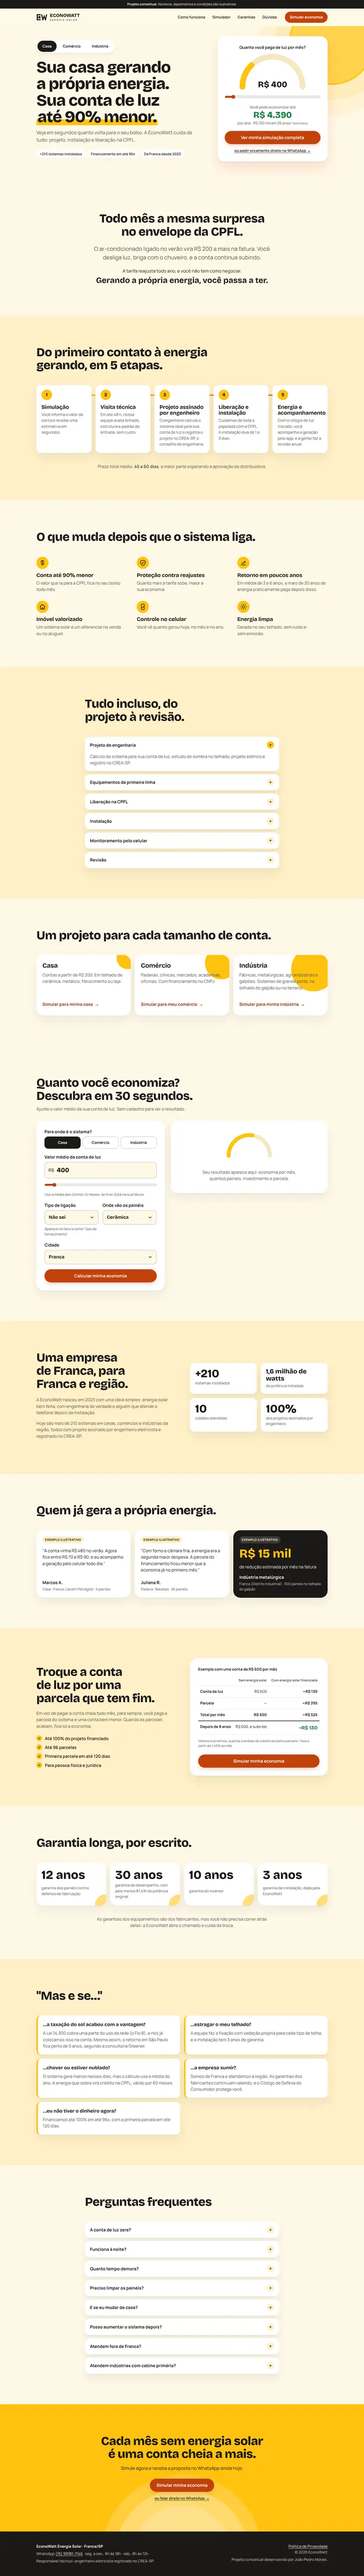
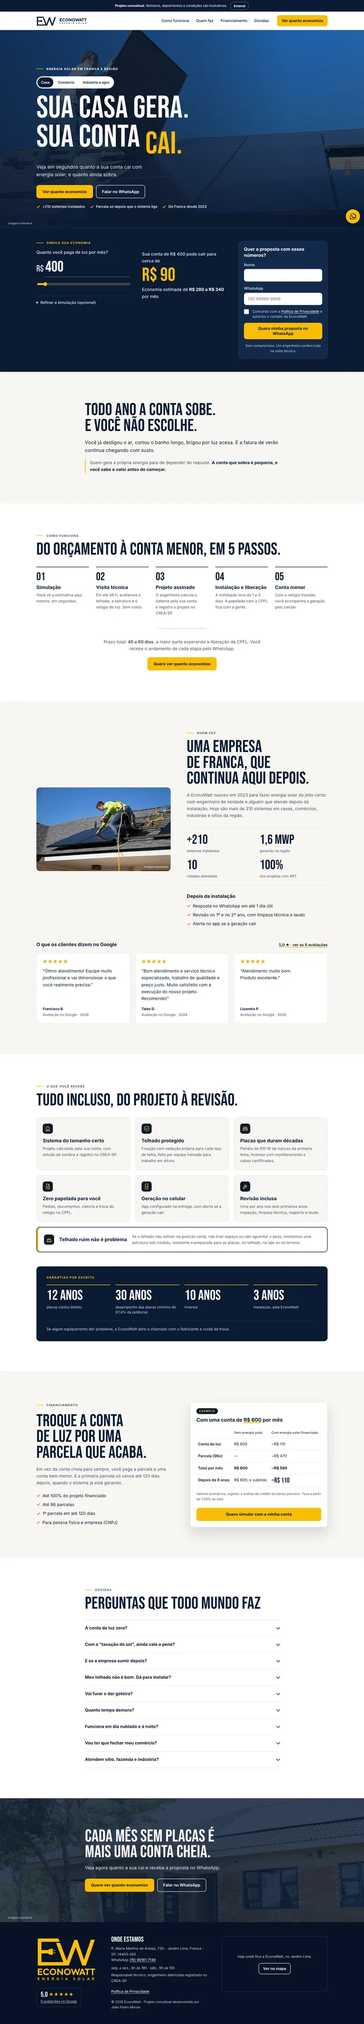
Ajuste de projeto da vitrine

diff --git a/src/data/projects.js b/src/data/projects.js
@@ -20,7 +20,6 @@ export const projects = [
             "Cardápio com preços",
             "SEO local",
         ],
-        stack: "React · Tailwind CSS · Lovable",
         image: "mimo-doceria",
         url: "https://mimodoceria.vercel.app/",
     },
@@ -31,7 +30,6 @@ export const projects = [
         description:
             "Agenda própria ligada ao Google Agenda da clínica: o paciente vê só os horários livres e marca a avaliação em 1 minuto. Copy dentro das regras do CFO e SEO local.",
         highlights: ["Agenda online", "Google Apps Script", "SEO local"],
-        stack: "HTML · CSS · JavaScript",
         image: "raiz-odontologia",
         url: "https://raizodontologia.vercel.app/",
     },
@@ -42,9 +40,8 @@ export const projects = [
         description:
             "Simulador de economia: a pessoa informa a conta de luz e vê painéis, economia, parcela e retorno. O seletor Casa, Comércio e Indústria adapta textos e valores.",
         highlights: ["Simulador", "Google Sheets", "Pixels Meta e Google"],
-        stack: "HTML · CSS · JavaScript",
         image: "econowatt",
-        url: "https://econowatt.vercel.app/",
+        url: "https://econowattt.vercel.app/",
     },
     {
         id: "raiz-cafe",
@@ -53,7 +50,6 @@ export const projects = [
         description:
             "Loja de café especial com carrinho, frete grátis progressivo e eventos de anúncio liberados só depois do consentimento de cookies.",
         highlights: ["Carrinho", "Google Tag Manager", "LGPD"],
-        stack: "React · Tailwind CSS",
         image: "raiz-cafe",
         url: "https://raizcafe.vercel.app/",
     },
@@ -64,7 +60,6 @@ export const projects = [
         description:
             "Página de vendas com a estrutura completa de copy: dor, benefícios, módulos, depoimentos, oferta com garantia e perguntas frequentes.",
         highlights: ["Copy de vendas", "Animações de rolagem"],
-        stack: "React · Framer Motion",
         image: "digitalpro",
         url: "https://lp-digitalpro.vercel.app/",
     },

diff --git a/src/components/Projects.jsx b/src/components/Projects.jsx
@@ -144,7 +144,6 @@ function ProjectCard({ project, featured = false }) {
             </li>
           ))}
         </ul>
-        <p className="mt-4 hidden font-mono text-[11.5px] text-noite-suave md:block">{project.stack}</p>
 
         <div className="mt-auto grid grid-cols-[auto_1fr] gap-2 pt-5 md:flex md:flex-wrap md:pt-[22px]">
           <a
